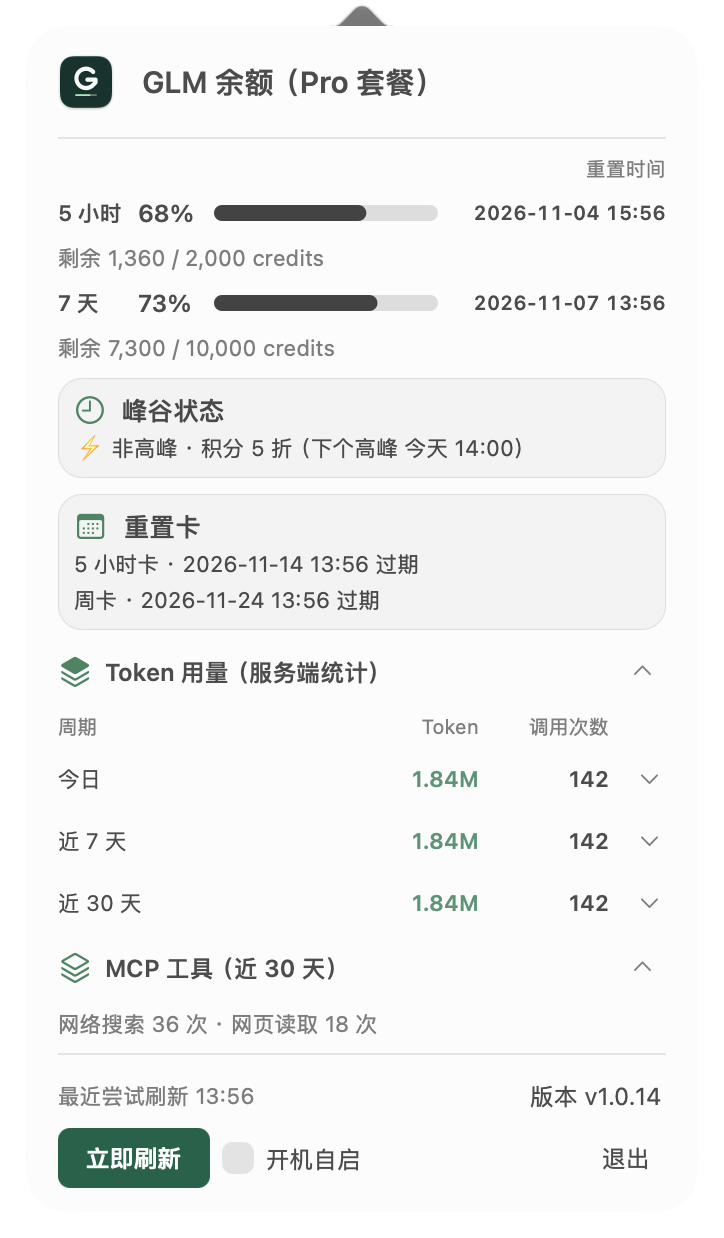
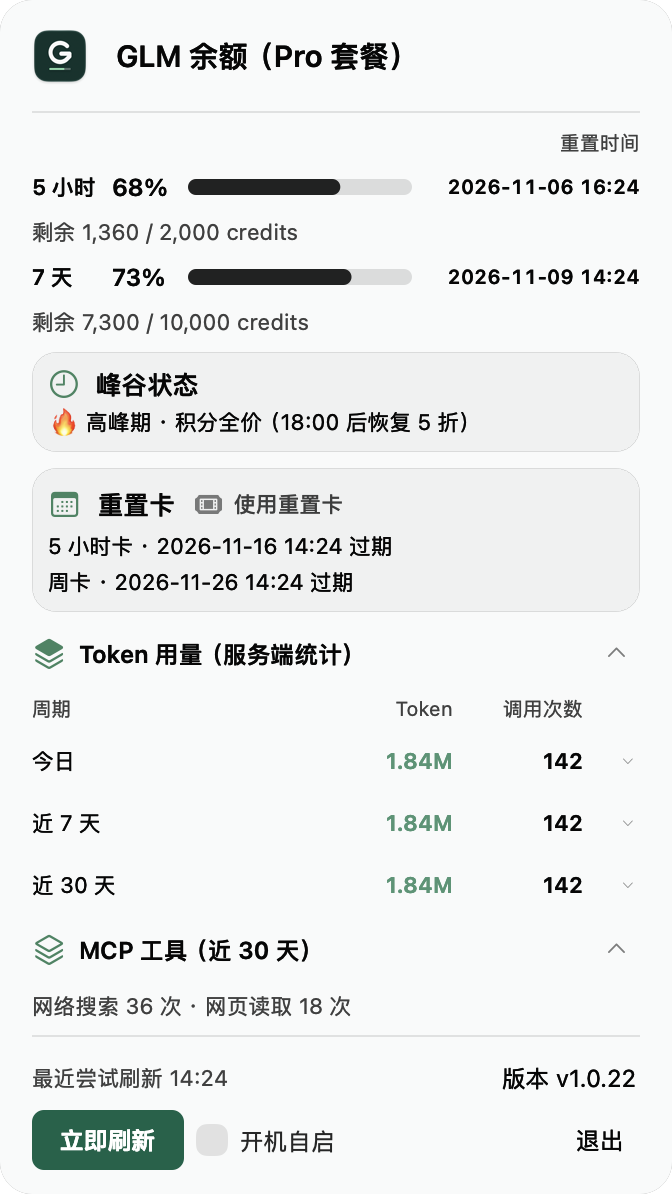
docs: 更新功能介绍与最新界面截图

diff --git a/README.md b/README.md
@@ -17,8 +17,9 @@
 
 - **看剩余额度**：菜单栏显示 5 小时和 7 天的剩余比例；点开查看剩余积分和重置时间。
 - **看使用情况**：查看今天、近 7 天和近 30 天的 Token 用量及调用次数，并可展开模型明细。
-- **看重置卡**：查看可用的 5 小时卡和周卡及其到期时间，不会自动使用。
-- **看工具和时段**：查看网络搜索、网页读取次数，以及当前峰谷时段提示。
+- **查看和使用重置卡**：查看可用的 5 小时卡、周卡及到期时间；需要时可手动使用，确认后才会消耗。
+- **看工具和时段**：查看近 30 天网络搜索、网页读取次数，以及当前峰谷时段提示。
+- **管理套餐与刷新**：查看套餐到期时间，手动刷新数据，也可设置开机自启。
 - **留意数据是否过期**：刷新失败时保留上次结果，并在界面提示错误或数据过期。
 
 Token 与工具用量来自服务端统计。重置卡信息需要有效的 ZCode 登录状态。
@@ -33,7 +34,7 @@ Token 与工具用量来自服务端统计。重置卡信息需要有效的 ZCod
 
 ## 更新
 
-有新版本时，菜单中会出现更新提示。点击后可在应用内查看更新进度，完成后自动重启。**从旧版首次升级到支持进度窗口的版本时，仍会出现终端窗口。**
+有新版本时，面板会显示更新提示。点击后可在面板内查看下载和安装进度；关闭面板不会中断更新，重新打开仍可查看进度。更新完成后应用会自动重启。旧版本首次升级时，更新界面可能有所不同。
 
 ## 数据与隐私
 
